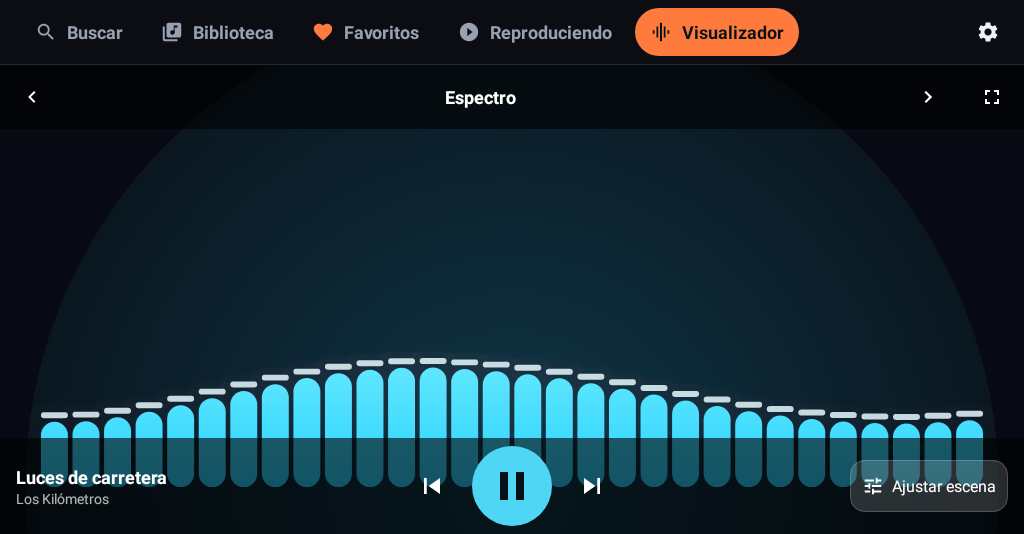
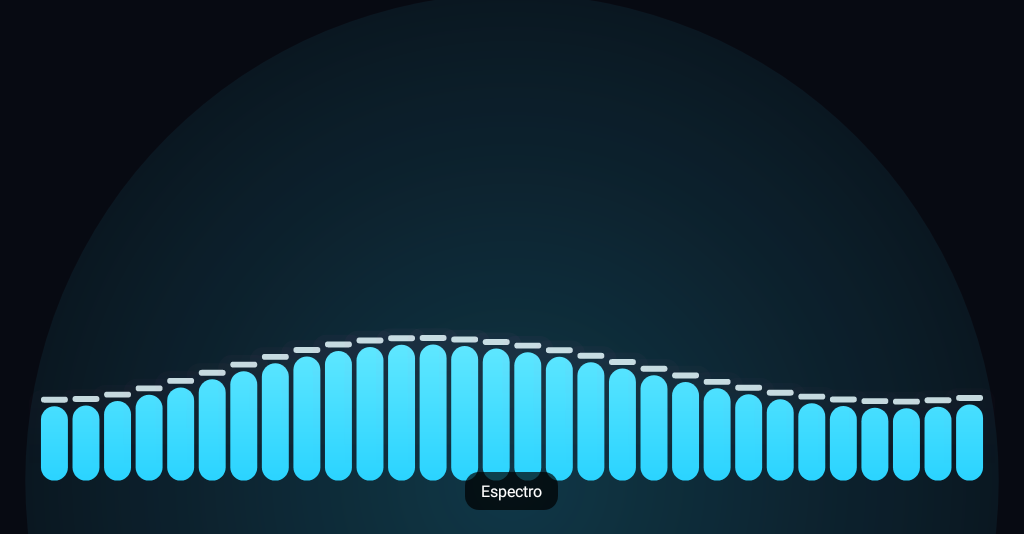
0.19.0: transporte del móvil sin recortes, capturas y README
Claude-Session: https://claude.ai/code/session_012dZvHdVuUJNBMhQ49X6f2G

diff --git a/app/src/main/kotlin/com/radillo/playerwave/ui/common/AccentColors.kt b/app/src/main/kotlin/com/radillo/playerwave/ui/common/AccentColors.kt
@@ -83,11 +83,11 @@ object AccentColors {
             shape = GradientDrawable.OVAL
             setColor(accent)
         }
-        val dotSize = (6 * density).toInt()
+        val dotSize = (5 * density).toInt()
         val active = LayerDrawable(arrayOf(disc(0x2E), dot)).apply {
             setLayerSize(1, dotSize, dotSize)
             setLayerGravity(1, Gravity.BOTTOM or Gravity.CENTER_HORIZONTAL)
-            setLayerInsetBottom(1, (8 * density).toInt())
+            setLayerInsetBottom(1, (5 * density).toInt())
         }
         addState(intArrayOf(android.R.attr.state_activated), active)
         addState(intArrayOf(android.R.attr.state_pressed), disc(0x40))

diff --git a/README.md b/README.md
@@ -60,13 +60,17 @@ Nombre provisional: comprobar disponibilidad de marca antes de cualquier uso com
 
 ## Capturas (autoestéreo, 1024×534 útiles bajo la barra del sistema)
 
-| Biblioteca | Reproduciendo |
+| Reproduciendo (portada) | Reproduciendo (visualizador) |
 |---|---|
-| ![Biblioteca](docs/screenshots/biblioteca.png) | ![Reproduciendo](docs/screenshots/reproduciendo.png) |
-| **Visualizador** | **Ajustes** |
-| ![Visualizador](docs/screenshots/visualizador.png) | ![Ajustes](docs/screenshots/ajustes.png)
+| ![Reproduciendo con portada](docs/screenshots/reproduciendo.png) | ![Reproduciendo con visualizador](docs/screenshots/reproduciendo-visualizador.png) |
+| **Visualizador a pantalla completa** | **Biblioteca** |
+| ![Visualizador a pantalla completa](docs/screenshots/visualizador.png) | ![Biblioteca](docs/screenshots/biblioteca.png) |
+| **Ajustes** | |
+| ![Ajustes](docs/screenshots/ajustes.png) | |
 
-El naranja de la barra superior es un ejemplo: toma el color de la portada de la canción que suena. |
+El naranja es un ejemplo: la barra superior, el botón de reproducir y el progreso toman el color de la
+portada de la canción que suena. En el recuadro de la portada: un toque alterna portada y
+visualizador, dos toques cambian de visualizador y tres lo abren a pantalla completa.
 
 ## Estado
 
